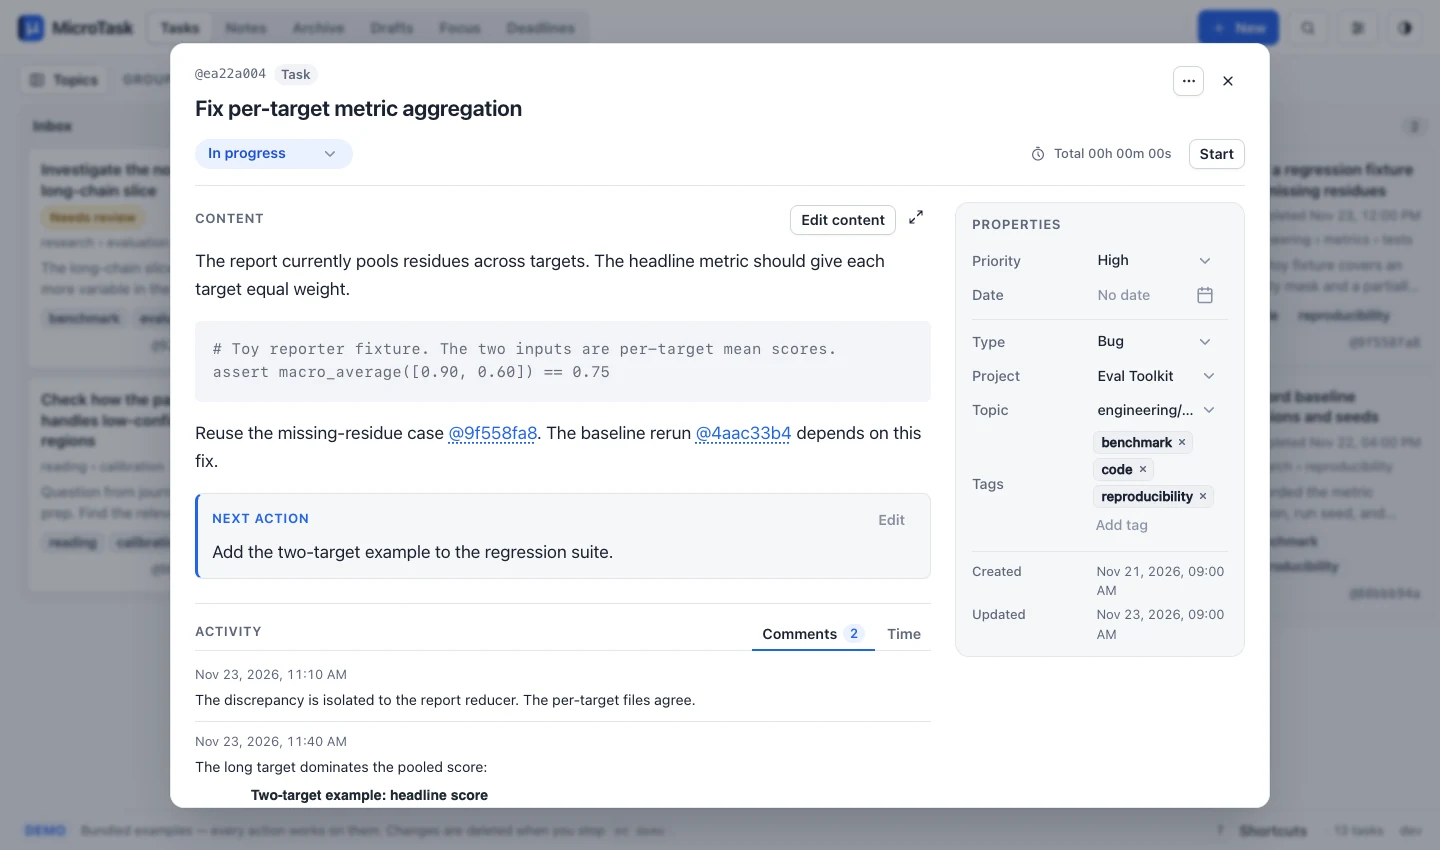
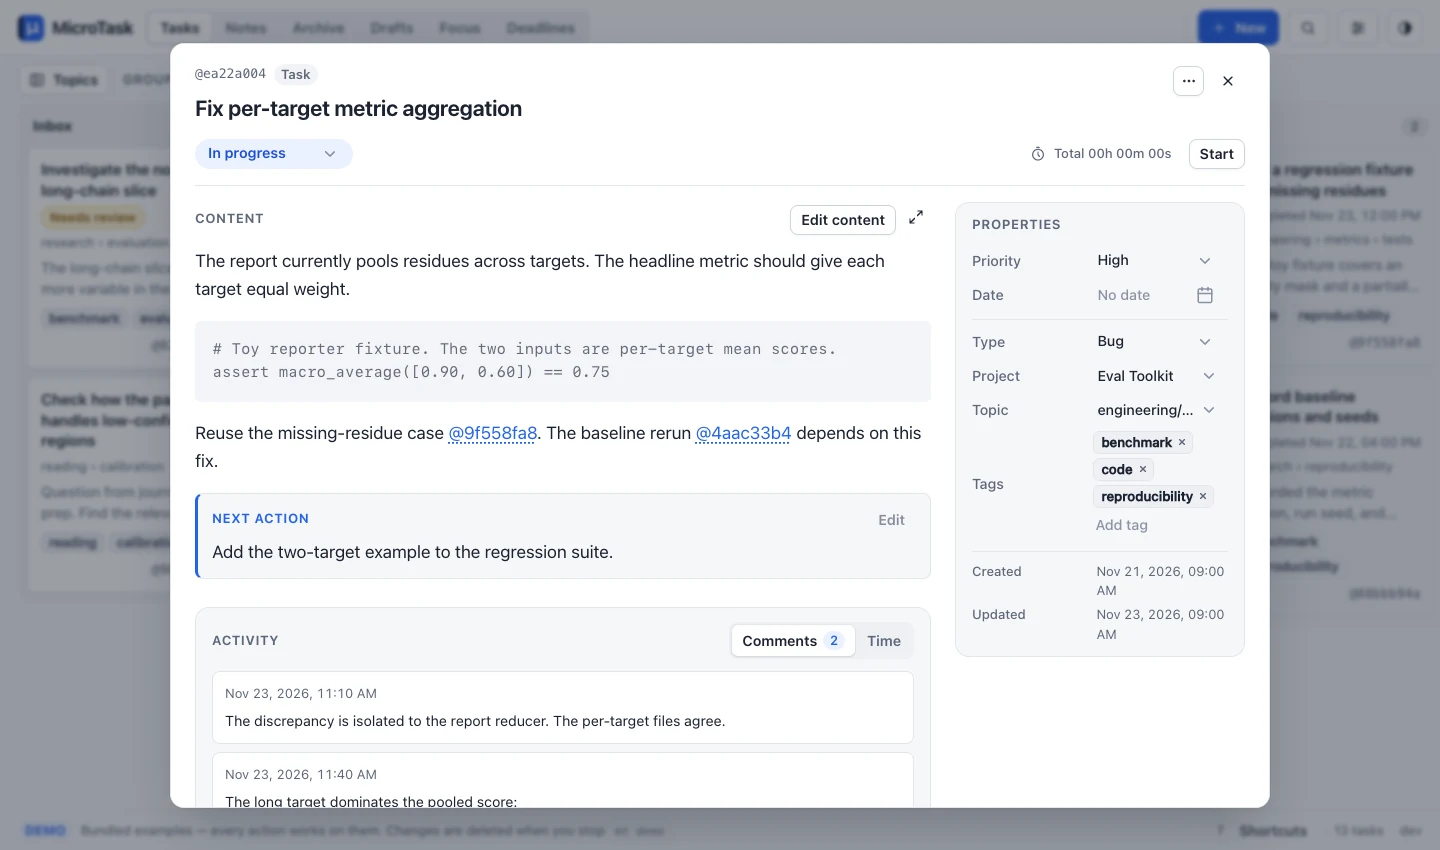
Improve box showing comments and timers in cards

Changed region(s): [[0.125, 0.7341, 0.5, 0.9482], [0.5, 0.7341, 0.6562, 0.7953]]

diff --git a/tools/web/styles/detail.css b/tools/web/styles/detail.css
@@ -178,19 +178,18 @@ textarea.mt-detail-title-input:disabled { opacity: 1; cursor: default; }
 .mt-preview > h2 { font-size: 1.15rem; }
 .mt-preview > :first-child { margin-top: 0; }
 /* Next action and processing instructions: labelled sections with in-place editors. */
+/* Each one is a callout attached to the content, so no rule is needed between them. */
 .mt-text-property {
   min-width: 0;
   margin-top: var(--mt-space-4);
-  padding-top: var(--mt-space-3);
-  border-top: 1px solid var(--mt-border);
-}
-.mt-text-property.is-next-action {
   padding: 10px 14px 12px;
   border: 1px solid var(--mt-border);
-  border-left: 3px solid var(--mt-accent);
+  border-left: 3px solid var(--mt-border-strong);
   border-radius: var(--mt-radius-md);
   background: var(--mt-surface-subdued);
 }
+.mt-text-property + .mt-text-property { margin-top: var(--mt-space-2); }
+.mt-text-property.is-next-action { border-left-color: var(--mt-accent); }
 .mt-text-property-header {
   display: flex;
   align-items: center;
@@ -228,12 +227,16 @@ button.mt-button.mt-text-property-edit {
 }
 .mt-text-property-editor .mt-layout-group { justify-content: flex-end; gap: var(--mt-space-2); }
 
-/* Unified Activity section: inline Comments + Time entries tabs. */
+/* Activity (comments and time entries) is a tinted panel that matches Properties,
+   so the card's content visibly ends where the panel begins. Entries are separated
+   by spacing, not rules. */
 .mt-detail-activity {
   min-width: 0;
-  margin-top: 24px;
-  padding-top: var(--mt-space-4);
-  border-top: 1px solid var(--mt-border);
+  margin-top: 28px;
+  padding: 14px 16px 16px;
+  border: 1px solid var(--mt-border);
+  border-radius: var(--mt-radius-lg);
+  background: var(--mt-surface-subdued);
 }
 .mt-activity-header {
   display: flex;
@@ -241,18 +244,18 @@ button.mt-button.mt-text-property-edit {
   align-items: center;
   justify-content: space-between;
   gap: var(--mt-space-2) var(--mt-space-4);
-  border-bottom: 1px solid var(--mt-border);
-  padding-bottom: 2px;
+  min-height: var(--mt-control-size-compact);
 }
-.mt-activity-header h3 {
-  padding-bottom: 6px;
-}
+/* Tabs use the segmented control look shared with the editor view toggles. */
 .mt-activity-tabs {
   display: inline-flex;
   align-items: center;
   gap: 2px;
+  max-width: 100%;
   overflow-x: auto;
-  margin-bottom: -3px;
+  padding: 3px;
+  border-radius: var(--mt-radius-md);
+  background: var(--mt-segment-track);
 }
 button.mt-button.mt-activity-tab {
   position: relative;
@@ -263,9 +266,9 @@ button.mt-button.mt-activity-tab {
   width: auto;
   min-height: var(--mt-control-size-compact);
   margin: 0;
-  padding: 4px 10px 8px;
+  padding: 3px 10px;
   border: 0;
-  border-radius: var(--mt-radius-sm) var(--mt-radius-sm) 0 0;
+  border-radius: calc(var(--mt-radius-md) - 2px);
   background: transparent;
   color: var(--mt-text-muted);
   box-shadow: none;
@@ -275,25 +278,29 @@ button.mt-button.mt-activity-tab {
   line-height: 1.2;
   white-space: nowrap;
   cursor: pointer;
-  transition: color .12s ease, background-color .12s ease;
+  transition: color .12s ease, background-color .12s ease, box-shadow .12s ease;
 }
 button.mt-button.mt-activity-tab:enabled:hover {
   color: var(--mt-text);
-  background: var(--mt-surface-hover);
+  background: color-mix(in srgb, var(--mt-segment-selected) 55%, transparent);
 }
 button.mt-button.mt-activity-tab:focus-visible {
   outline: 2px solid var(--mt-focus);
   outline-offset: -2px;
 }
 button.mt-button.mt-activity-tab[aria-selected="true"] {
+  background: var(--mt-segment-selected);
   color: var(--mt-text);
+  box-shadow: var(--mt-shadow-segment);
 }
-/* Draw the selected underline with border-block-end so it survives forced-colors mode. */
-button.mt-button.mt-activity-tab[aria-selected="true"]::after {
-  content: "";
-  position: absolute;
-  inset: auto 0 0;
-  border-block-end: 2px solid var(--mt-accent);
+/* Backgrounds vanish in forced-colors mode; an underline keeps the selected tab visible. */
+@media (forced-colors: active) {
+  button.mt-button.mt-activity-tab[aria-selected="true"]::after {
+    content: "";
+    position: absolute;
+    inset: auto 6px 1px;
+    border-block-end: 2px solid CanvasText;
+  }
 }
 .mt-activity-tab-count {
   display: inline-flex;
@@ -302,7 +309,7 @@ button.mt-button.mt-activity-tab[aria-selected="true"]::after {
   min-width: 1.25rem;
   padding: 0 5px;
   border-radius: var(--mt-radius-pill);
-  background: var(--mt-surface-quiet);
+  background: var(--mt-segment-selected);
   color: var(--mt-text-muted);
   font-size: var(--mt-font-size-xs);
   font-weight: 600;
@@ -328,21 +335,19 @@ button.mt-button.mt-activity-tab[aria-selected="true"] .mt-activity-tab-count {
   color: var(--mt-text-muted);
   font-size: var(--mt-font-size-sm);
 }
-.mt-comment-history { display: grid; }
-/* Comments are a clean inline thread; reset Pico's card styling for <article>. */
+.mt-comment-history { display: grid; gap: var(--mt-space-2); }
+/* Each comment is a light card on the activity panel; reset Pico's <article> styling. */
 .mt-comment-entry {
   min-width: 0;
   margin: 0;
-  padding: 10px 0;
-  border: 0;
-  border-top: 1px solid var(--mt-border);
-  border-radius: 0;
-  background: transparent;
+  padding: 10px 12px 11px;
+  border: 1px solid var(--mt-border);
+  border-radius: var(--mt-radius-md);
+  background: var(--mt-surface);
   box-shadow: none;
   overflow-wrap: anywhere;
 }
-.mt-comment-entry:first-child { padding-top: 2px; border-top: 0; }
-.mt-comment-entry:last-child { padding-bottom: 2px; }
+.mt-comment-entry.is-editing { padding: 8px; }
 .mt-comment-meta {
   display: flex;
   flex-wrap: wrap;
@@ -407,7 +412,10 @@ button.mt-button.mt-activity-tab[aria-selected="true"] .mt-activity-tab-count {
 .mt-time-entry-list {
   display: grid;
   margin: 0;
-  padding: 0;
+  padding: 4px;
+  border: 1px solid var(--mt-border);
+  border-radius: var(--mt-radius-md);
+  background: var(--mt-surface);
   list-style: none;
 }
 .mt-time-entry {
@@ -416,11 +424,11 @@ button.mt-button.mt-activity-tab[aria-selected="true"] .mt-activity-tab-count {
   align-items: baseline;
   justify-content: space-between;
   gap: 4px 12px;
-  padding: 8px 2px;
-  border-top: 1px solid var(--mt-border);
+  padding: 7px 10px;
+  border-radius: var(--mt-radius-sm);
   font-size: var(--mt-font-size-sm);
 }
-.mt-time-entry:first-child { padding-top: 2px; border-top: 0; }
+.mt-time-entry:nth-child(even) { background: var(--mt-surface-subdued); }
 .mt-time-entry-when {
   display: flex;
   flex-wrap: wrap;
